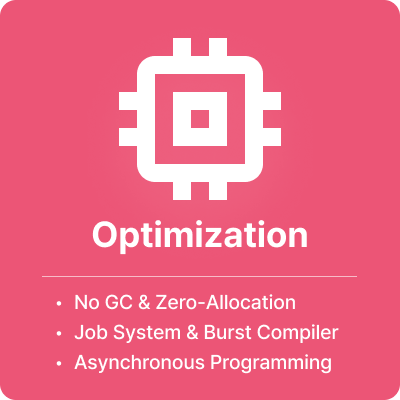
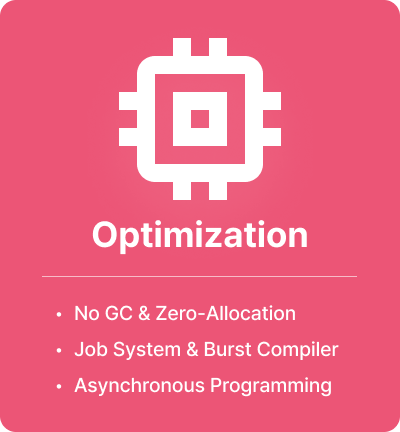
Update README.md

diff --git a/README.md b/README.md
@@ -12,18 +12,10 @@
 
 ## Currently Learning & Exploring
 
-<table width="100%">
-  <tr>
-    <td align="center">
-        <img src="img/learning-card-unity.png" alt="Unity" width="100%">
-    </td>
-    <td align="center">
-        <img src="img/learning-card-optimization.png" alt="Optimization" width="100%">
-    </td>
-    <td align="center">
-        <a href="https://solved.ac/dev0">
-            <img src="img/learning-card-ps.png" alt="PS" width="100%">
-        </a>
-    </td>
-  </tr>
-</table>
+<div align="center">
+    <img src="img/learning-card-unity.png" alt="Unity" width="32%">
+    <img src="img/learning-card-optimization.png" alt="Optimization" width="32%">
+    <a href="https://solved.ac/dev0">
+        <img src="img/learning-card-ps.png" alt="PS" width="32%">
+    </a>
+</div>
